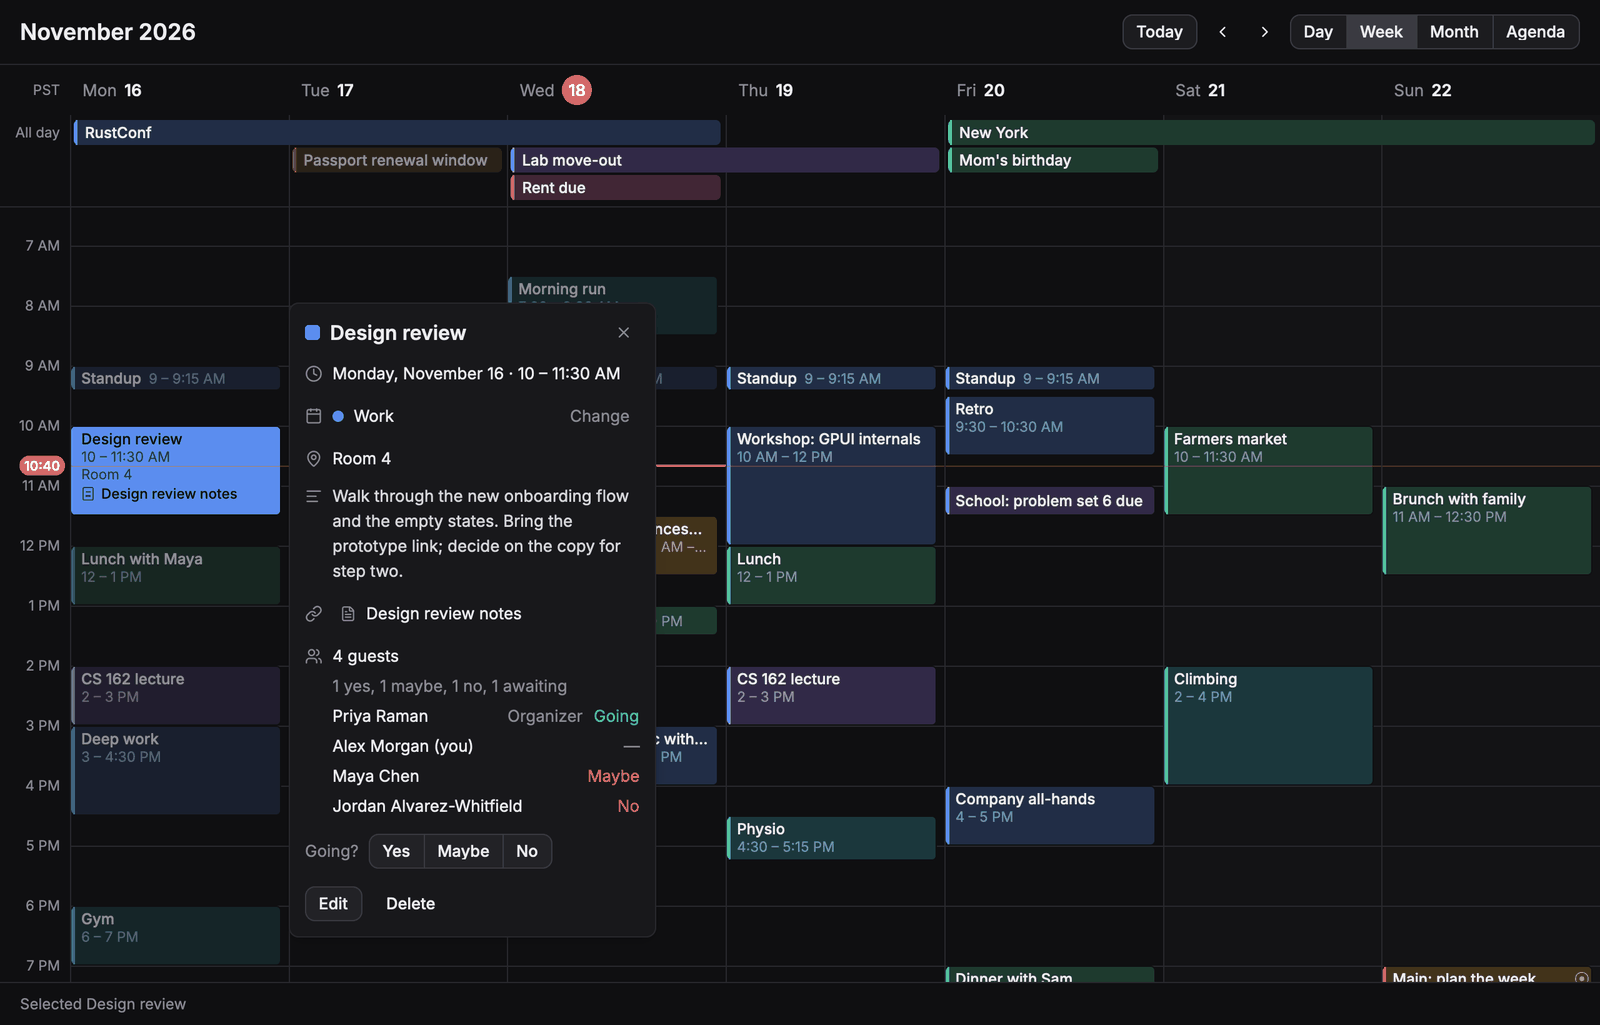
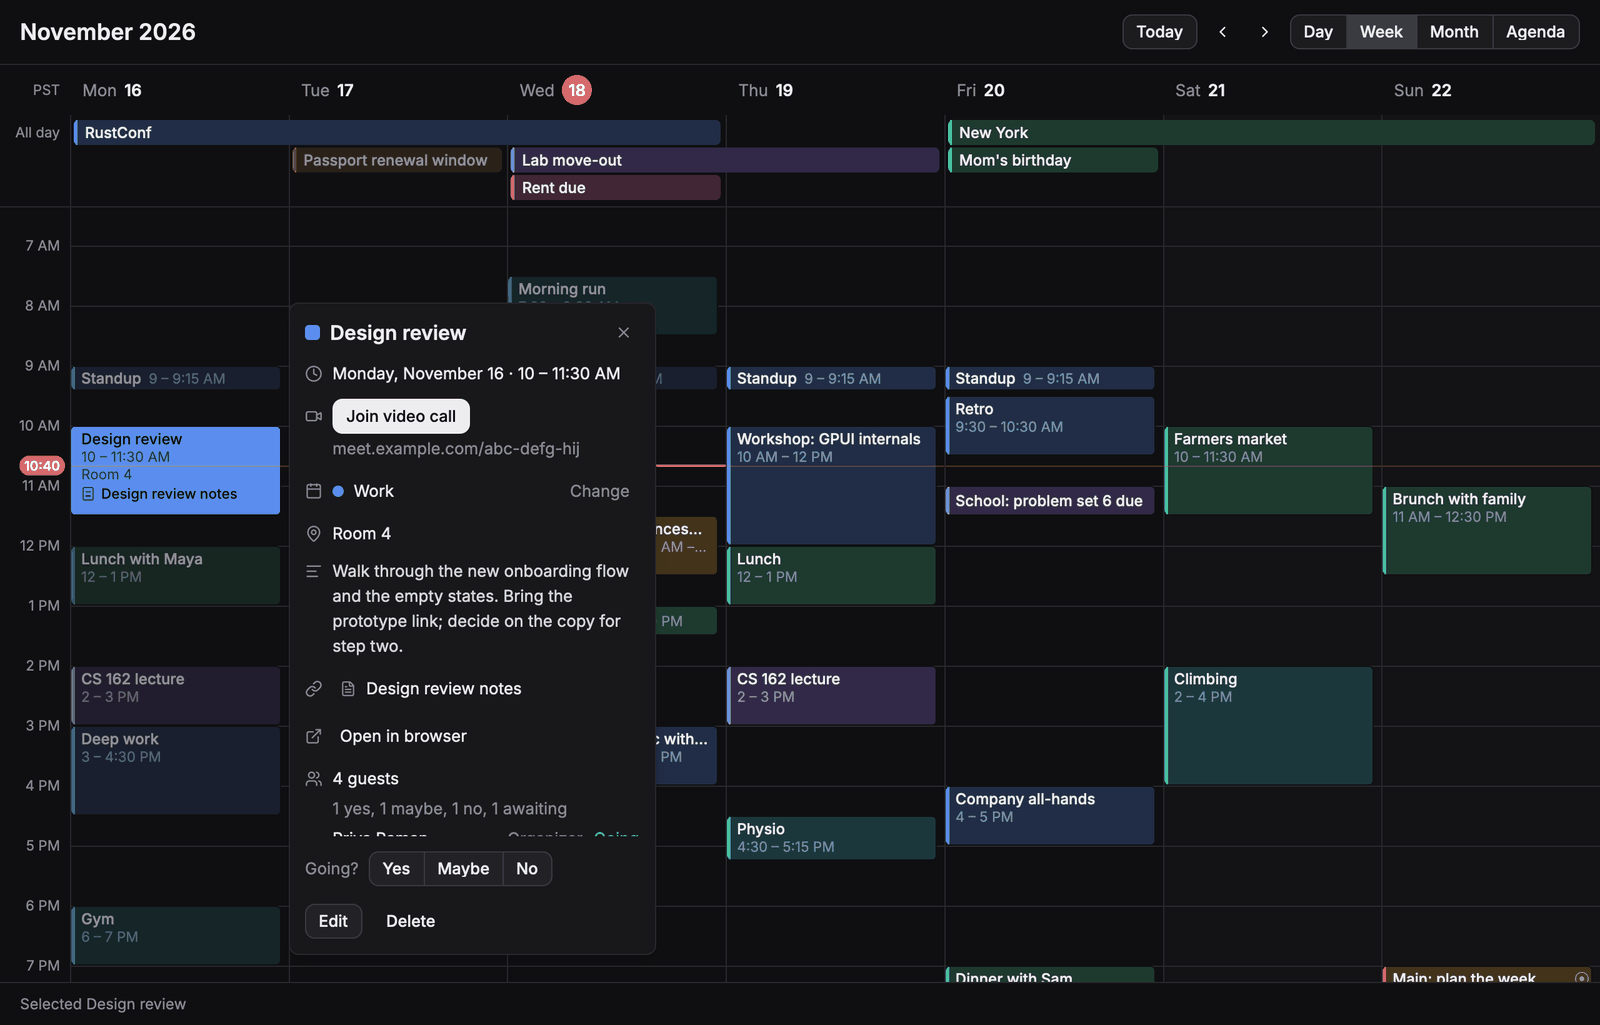
docs(calendar): re-render the event panel's pictures (#252)
docs/panel.png and docs/compact-panel.png show the panel as it is now:
the guests counted by answer, and the demo's design review with a
video call to join and its page to open, which the example now gives
it. Rendered offscreen with the shots feature, 1600 px wide at most
and quantised to 256 colours, as the other READMEs' pictures are.

Changed region(s): [[0.1875, 0.3746, 0.4062, 0.9054], [0.375, 0.7493, 0.4062, 0.7805]]

diff --git a/gpui-calendar/examples/calendar.rs b/gpui-calendar/examples/calendar.rs
@@ -306,9 +306,12 @@ fn sample_week(monday: NaiveDate) -> Vec<Event> {
         .read_only(true),
     );
     {
-        // The design review, as Google Calendar would hand it over: notes and guests.
+        // The design review, as Google Calendar would hand it over: notes, guests, a video
+        // call and its page there.
         let design = out.iter_mut().find(|e| e.id == "design").unwrap();
         design.location = Some("Room 4".into());
+        design.conference = Some("https://meet.example.com/abc-defg-hij".into());
+        design.url = Some("https://calendar.example.com/event?eid=design".into());
         design.notes = Some(
             "Walk through the new onboarding flow and the empty states. Bring the prototype \
              link; decide on the copy for step two."
